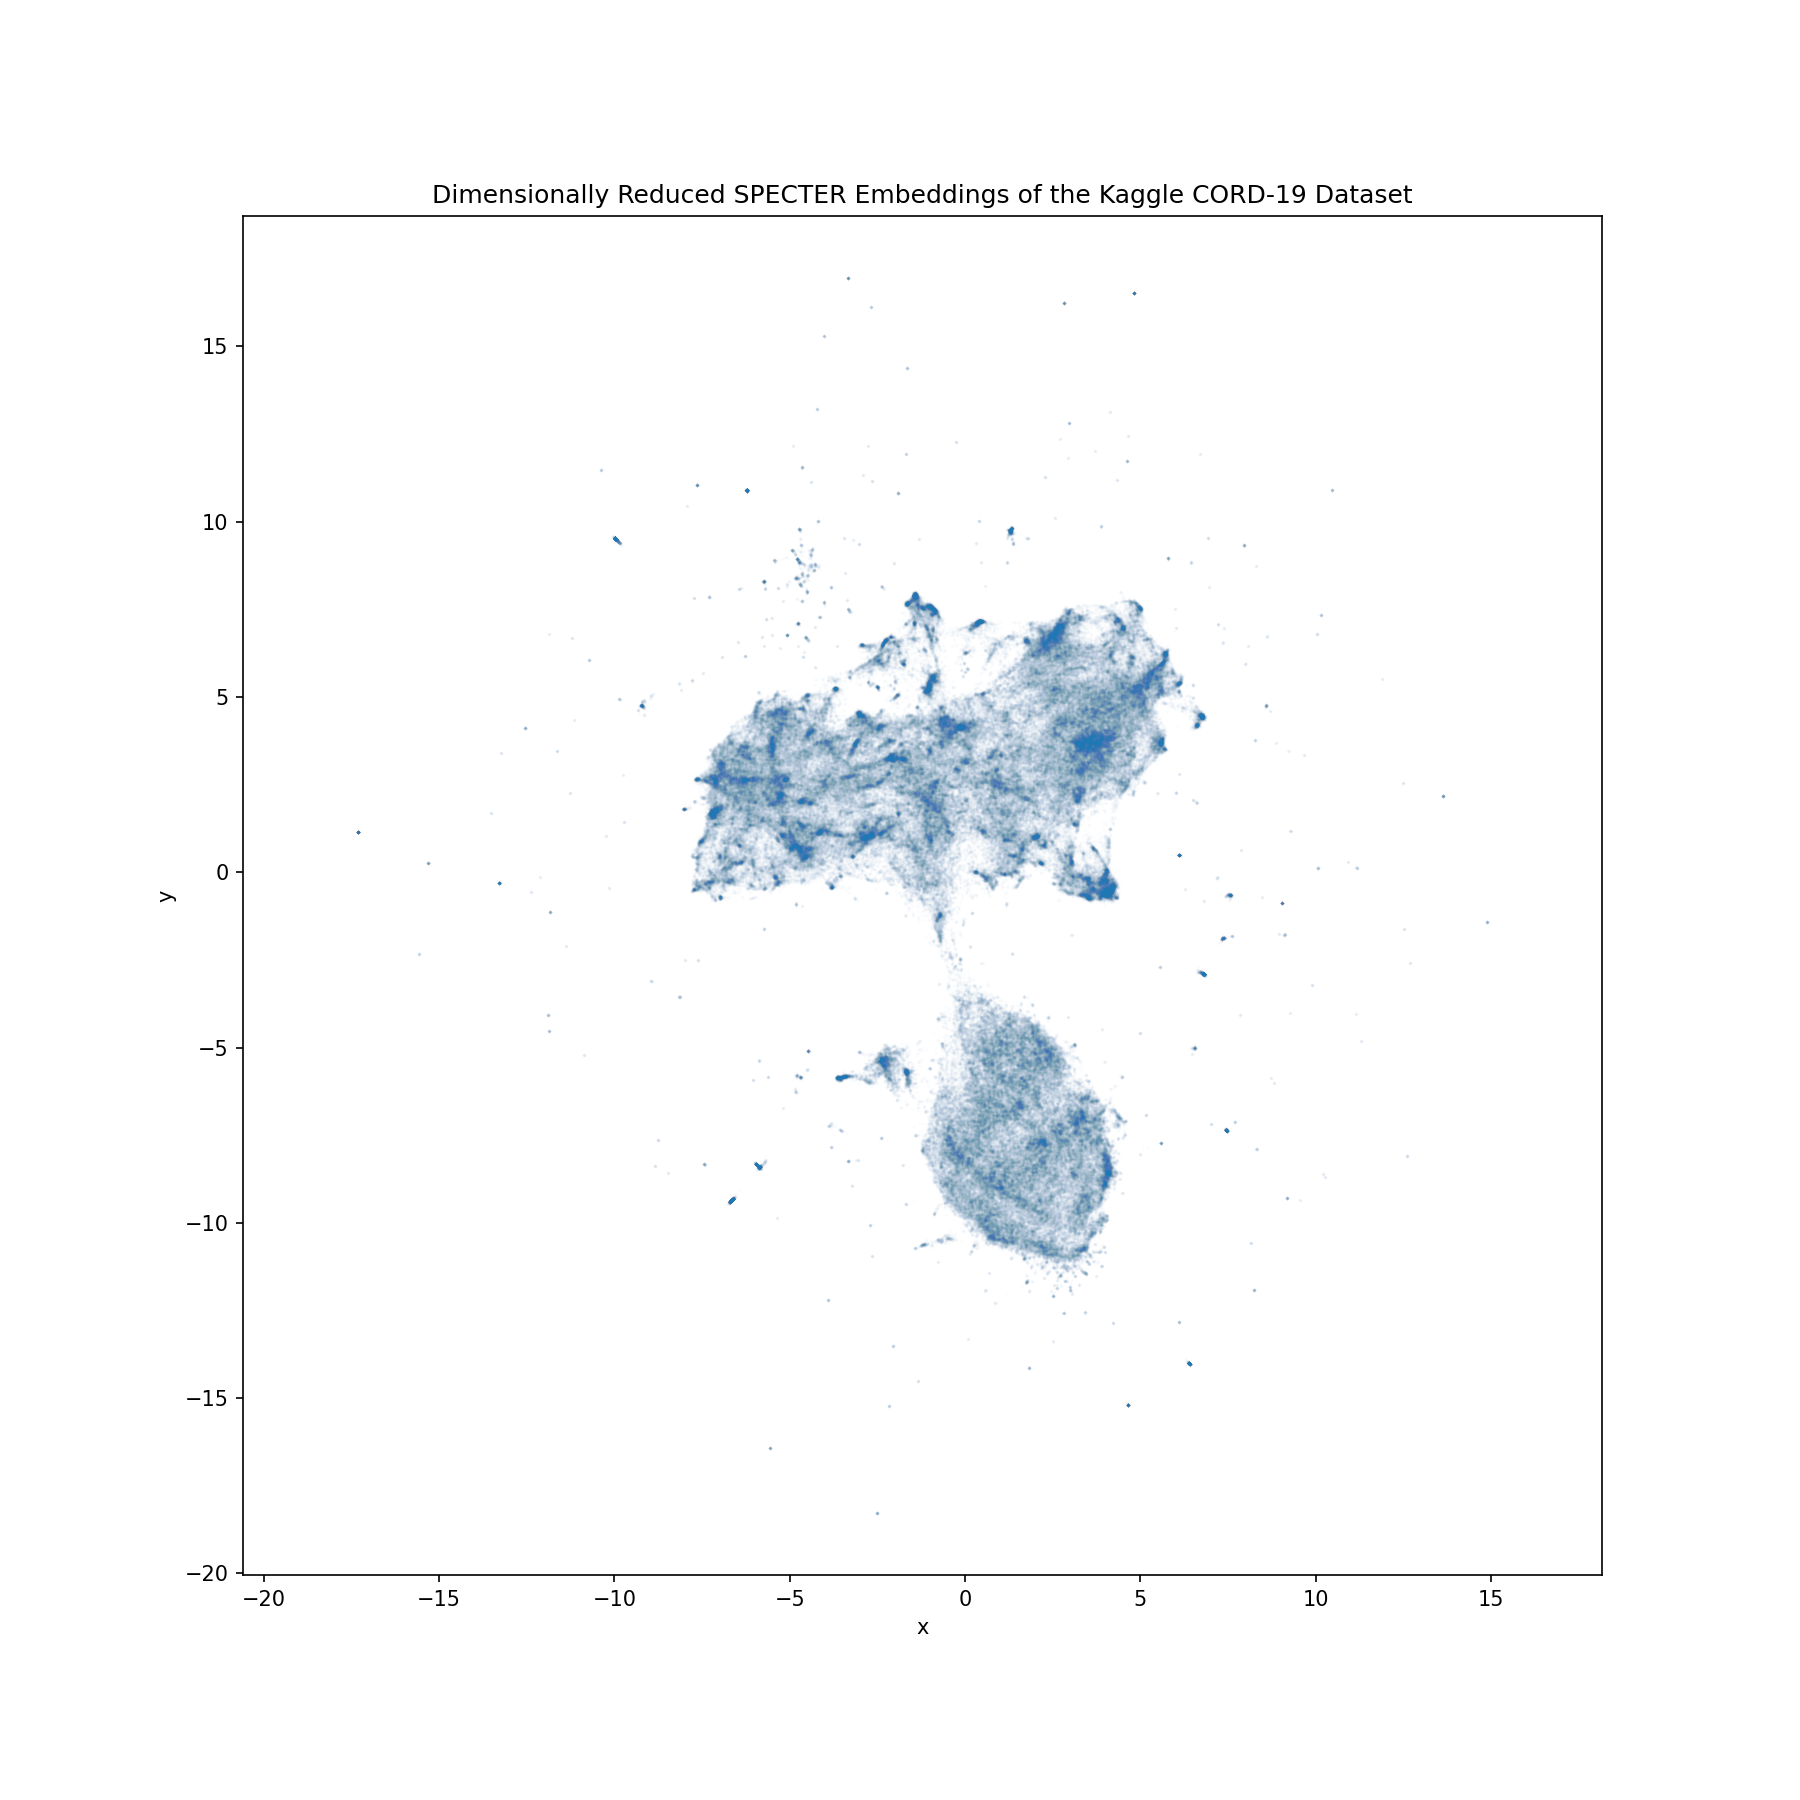
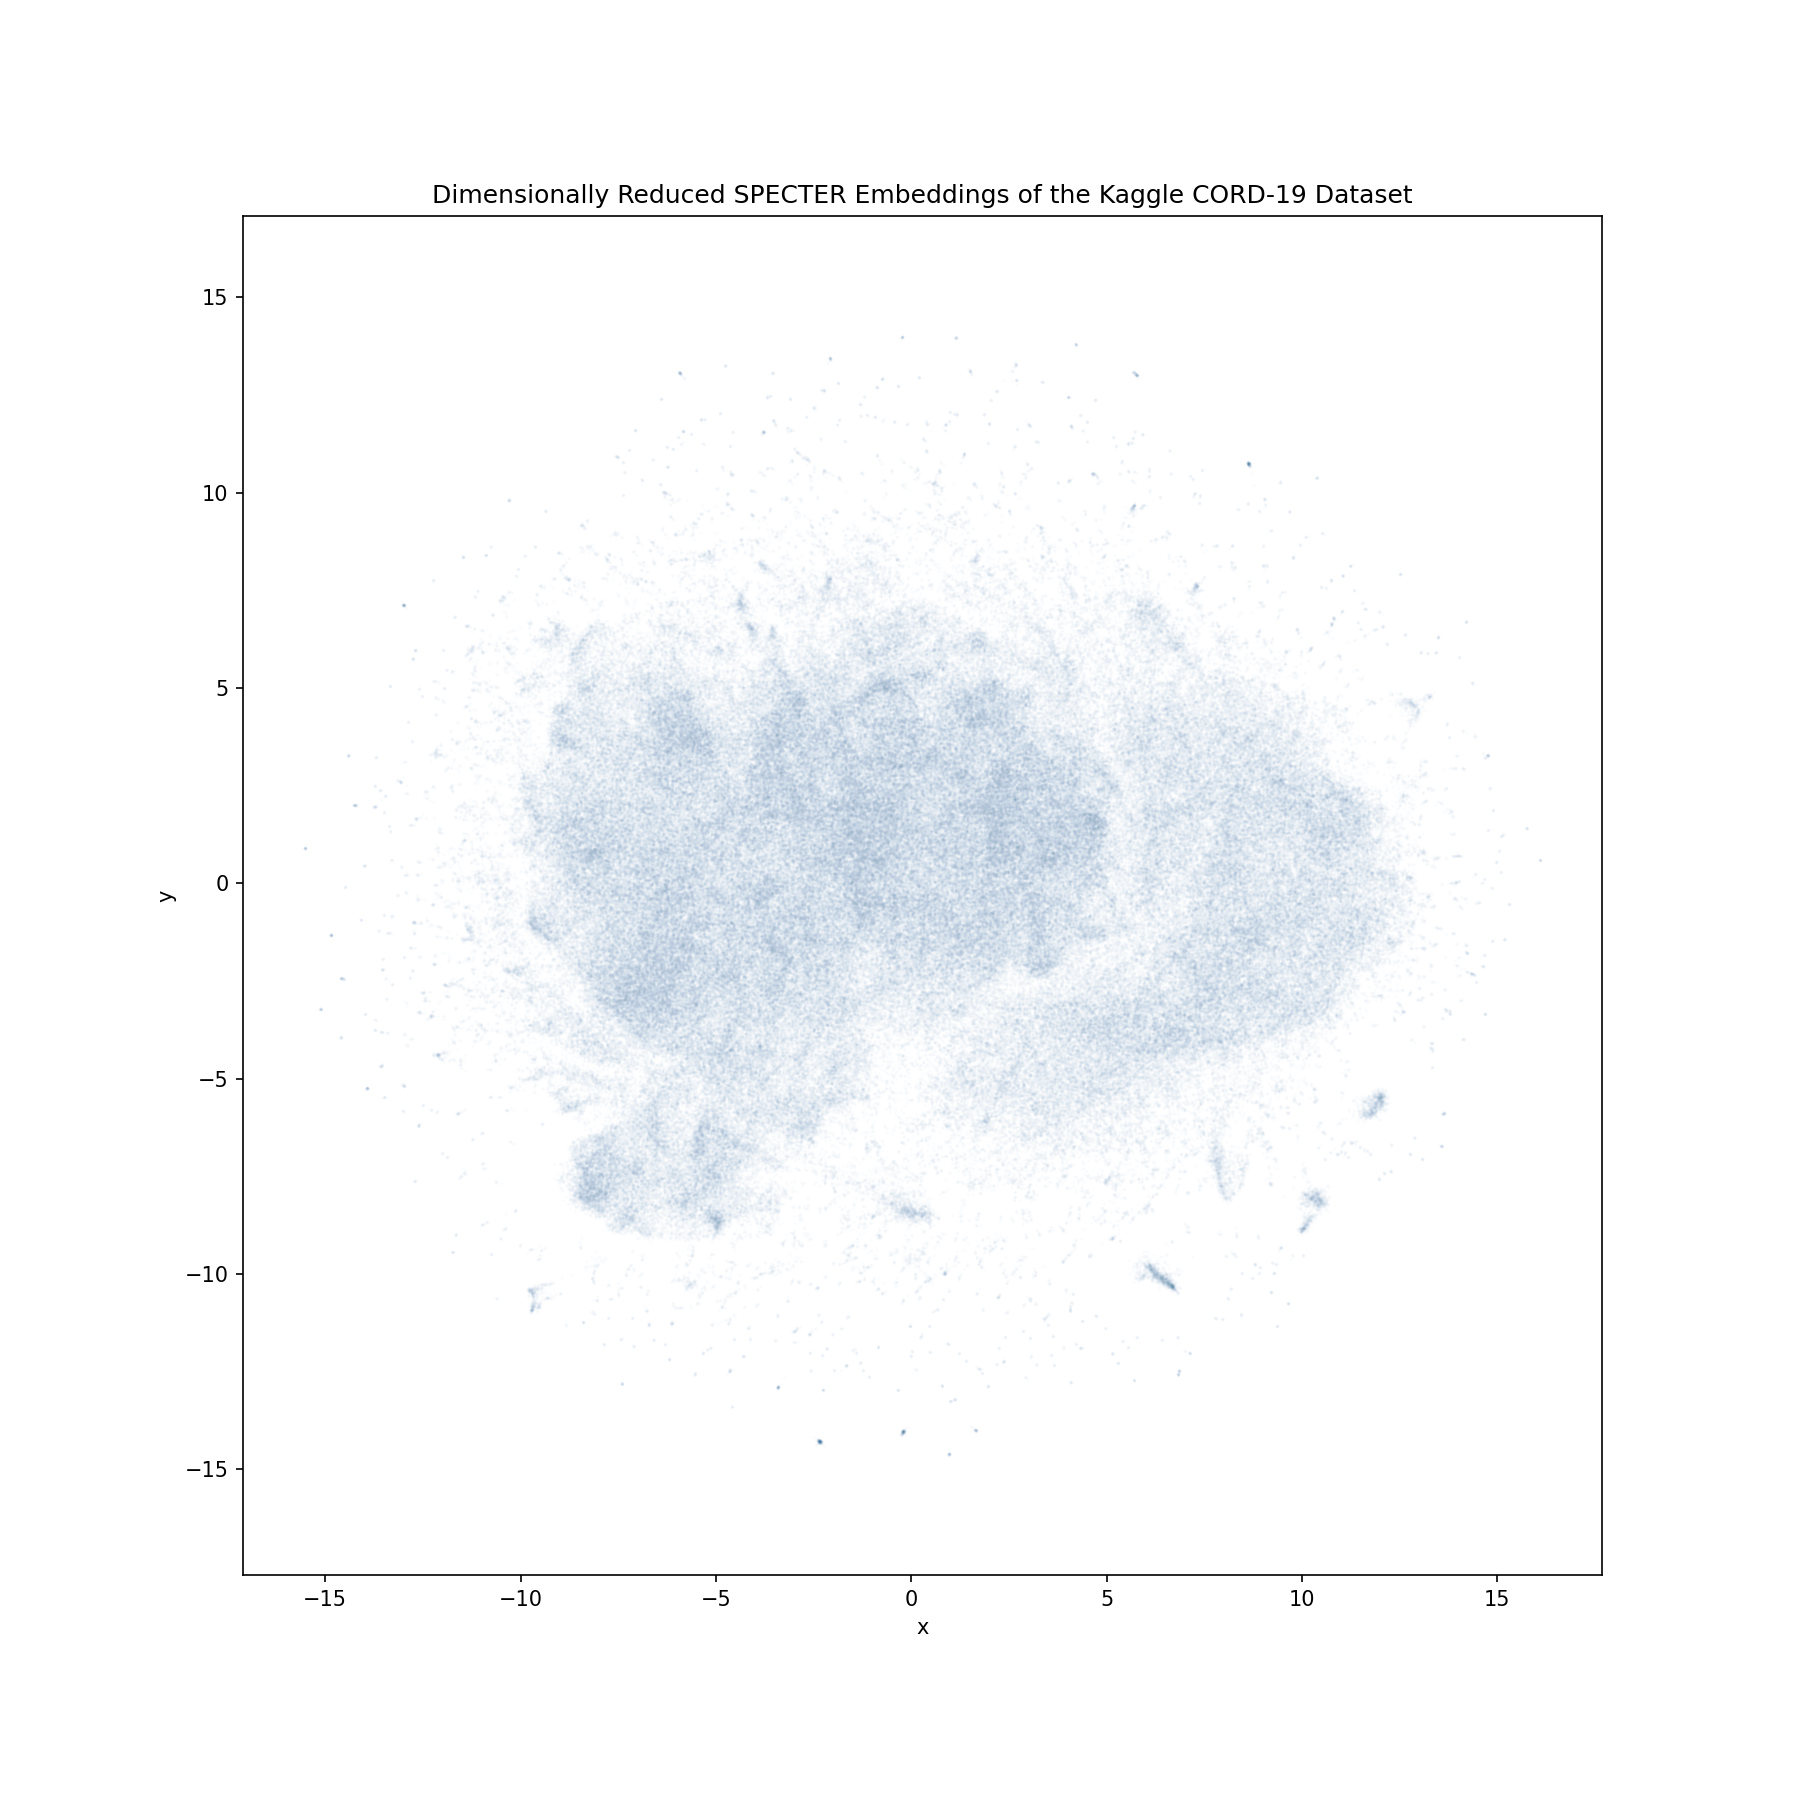
Re-tweaked dim reduce and clustering

Changed region(s): [[0.28, 0.3111, 0.7778, 0.7156], [0.7467, 0.5911, 0.7778, 0.6222], [0.7156, 0.6533, 0.7467, 0.6844]]

diff --git a/KB/4_kaggle_v4_0.py b/KB/4_kaggle_v4_0.py
@@ -107,7 +107,7 @@ if False:
 # %%
 %%time
 
-model_umap = umap.UMAP(n_components = 2, n_neighbors = 15, min_dist = 0.1, metric = 'minkowski', metric_kwds = {'p': 2.0/3.0}, random_state = 0)
+model_umap = umap.UMAP(n_components = 2, n_neighbors = 7, min_dist = 0.5, metric = 'minkowski', metric_kwds = {'p': 2.0/3.0}, random_state = 0)
 
 embs_red = model_umap.fit_transform(embs)
 embs_red = embs_red - np.mean(embs_red, axis = 0)
@@ -126,7 +126,7 @@ if False:
 # %%
 # Plot result
 
-i = np.random.randint(0, high = embs.shape[0], size = 100000)
+i = np.random.randint(0, high = embs.shape[0], size = 10000)
 
 fig, ax = plt.subplots(nrows = 1, ncols = 1, figsize = (12, 12))
 # __ = emlib.plot_emb(coor = embs_red[i, :], cmap_name = 'qual', legend_kwargs = {}, colorbar = False, str_title = 'Dimensionally Reduced SPECTER Embeddings of the Kaggle CORD-19 Dataset', ax = ax)
@@ -139,12 +139,15 @@ fig.savefig('./figures/kaggle/embeddings_umap.png', dpi = 150)
 # # Apply Hierarchical Clustering
 
 # %%
-epsilons = np.arange(0.01, 0.041, 0.01)
+
+# epsilons = np.arange(0.01, 0.041, 0.01)
+epsilons = np.array([0.03, 0.04, 0.05])
+
 labels = []
 for eps in tqdm(epsilons):
 
     # Generate cluster labels
-    kwargs = {'metric': 'euclidean', 'min_cluster_size': 2, 'min_samples': 3, 'cluster_selection_epsilon': float(eps)}
+    kwargs = {'metric': 'euclidean', 'min_cluster_size': 50, 'min_samples': 3, 'cluster_selection_epsilon': float(eps)}
     clusterer = hdbscan.HDBSCAN(**kwargs)
     clusterer.fit(embs_red)
     l = clusterer.labels_
@@ -181,63 +184,92 @@ if False:
     with open('./dist/kaggle/embeddings_umap_hdbscan.pkl', 'rb') as f:
         labels = pickle.load(f)
 
-    epsilons = np.arange(0.01, 0.041, 0.01)[::-1]
+    # epsilons = np.arange(0.01, 0.041, 0.01)[::-1]
+    epsilons = np.array([0.03, 0.04, 0.05])[::-1]
 
 # %%[markdown]
 # Plot cluster distribution
 
-fig, ax = plt.subplots(nrows = 2, ncols = 1, figsize = (12, 12))
+# fig, ax = plt.subplots(nrows = 2, ncols = 1, figsize = (12, 12))
 
-# Number of clusters/groups as a function of epsilon
-c = 'tab:blue'
-x = [np.unique(l, return_counts = True) for l in labels.T]
-__ = ax[0].plot(epsilons, [len(i[0]) for i in x], marker = 'o', color = c)
-__ = ax[0].set_ylabel('Number of Groups', color = c)
-__ = ax[0].tick_params(axis = 'y', labelcolor = c)
-# __ = ax[0].tick_params(axis = 'x', labelbottom = False)
-__ = plt.setp(ax[0], yscale = 'linear')
-
-
-# Size of clusters/groups as a function of epsilon
-c = 'tab:blue'
-y = [i[1] for i in x]
-h = ax[1].violinplot(dataset = y, positions = epsilons, widths = 0.005)
-__ = plt.setp(ax[1], xlabel = 'Epsilon, \u03B5', yscale = 'log')
-__ = ax[1].set_ylabel('Size of Groups', color = c)
-__ = ax[1].tick_params(axis = 'y', labelcolor = c)
-for i in h['bodies']:
-    i.set_facecolor(c)
-
-# Number of noise points
-c = 'tab:red'
-ax_ = ax[1].twinx()
-z = [sum(labels[:, i] == -1) for i in range(labels.shape[1])]
-__ = ax_.plot(epsilons, z, marker = 'o', color = c)
-__ = plt.setp(ax_, yscale = 'log')
-__ = ax_.set_ylabel('Number of Noise Points', color = c)
-__ = ax_.tick_params(axis = 'y', labelcolor = c)
-
-__ = plt.setp(ax_, ylim = plt.getp(ax[1], 'ylim'))
-__ = plt.setp(ax[0], xlim = plt.getp(ax[1], 'xlim'))
+# # Number of clusters/groups as a function of epsilon
+# c = 'tab:blue'
+# x = [np.unique(l, return_counts = True) for l in labels.T]
+# __ = ax[0].plot(epsilons, [len(i[0]) for i in x], marker = 'o', color = c)
+# __ = ax[0].set_ylabel('Number of Groups', color = c)
+# __ = ax[0].tick_params(axis = 'y', labelcolor = c)
+# # __ = ax[0].tick_params(axis = 'x', labelbottom = False)
+# __ = plt.setp(ax[0], yscale = 'linear')
 
 
-fig.savefig('./figures/kaggle/embeddings_umap_hdbscan_distribution.png', dpi = 150)
+# # Size of clusters/groups as a function of epsilon
+# c = 'tab:blue'
+# y = [i[1] for i in x]
+# h = ax[1].violinplot(dataset = y, positions = epsilons, widths = 0.005)
+# __ = plt.setp(ax[1], xlabel = 'Epsilon, \u03B5', yscale = 'log')
+# __ = ax[1].set_ylabel('Size of Groups', color = c)
+# __ = ax[1].tick_params(axis = 'y', labelcolor = c)
+# for i in h['bodies']:
+#     i.set_facecolor(c)
 
-fig = ax = x = y = z = h = None
-del fig, ax, x, y, z, h
+# # Number of noise points
+# c = 'tab:red'
+# ax_ = ax[1].twinx()
+# z = [sum(labels[:, i] == -1) for i in range(labels.shape[1])]
+# __ = ax_.plot(epsilons, z, marker = 'o', color = c)
+# __ = plt.setp(ax_, yscale = 'log')
+# __ = ax_.set_ylabel('Number of Noise Points', color = c)
+# __ = ax_.tick_params(axis = 'y', labelcolor = c)
+
+# __ = plt.setp(ax_, ylim = plt.getp(ax[1], 'ylim'))
+# __ = plt.setp(ax[0], xlim = plt.getp(ax[1], 'xlim'))
+
+
+# fig.savefig('./figures/kaggle/embeddings_umap_hdbscan_distribution.png', dpi = 150)
+
+# fig = ax = x = y = z = h = None
+# del fig, ax, x, y, z, h
+
+
+# %%
+# X% quantile of cluster size
+n = 0.98
+labels_ = []
+
+for i in range(len(epsilons)):
+
+    x, y = np.unique(labels[:, i], return_counts = True)
+    j = np.argsort(y)[::-1]
+    x = x[j]
+    y = y[j]
+
+    m = np.quantile(y, n)
+    p = sum(y >= m)
+
+    print(f"eps = {epsilons[i]}: {n}-quantile cluster size = {m}, top {p} clusters")
+    
+    labels_.append([l if l in x[:p] else -1 for l in labels[:, i]])
+    
+labels_ = np.array(labels_).T
+
+# eps = 0.05: 0.98-quantile cluster size = 52.0, top 66 clusters
+# eps = 0.04: 0.98-quantile cluster size = 59.0, top 118 clusters
+# eps = 0.03: 0.98-quantile cluster size = 54.0, top 317 clusters
 
 
 # %%[markdown]
 # Plot result
 
-j = np.random.randint(0, high = embs_red.shape[0], size = 100000)
+%%time
+
+j = np.random.randint(0, high = embs_red.shape[0], size = 50000)
 
 fig, ax = plt.subplots(nrows = 2, ncols = 2, figsize = (15, 15))
 
 for i, x in enumerate(fig.axes):
 
     if i < labels.shape[1]:
-        __ = emlib.plot_emb(coor = embs_red[j, :], labels = labels[j, i], cmap_name = 'qual', marker_size = 0.5, marker_alpha = 0.05, legend_kwargs = {}, colorbar = False, str_title = f'\u03B5 = {epsilons[i]:.2f}', ax = x)
+        __ = emlib.plot_emb(coor = embs_red[j, :], labels = labels_[j, i], cmap_name = 'qual', marker_size = 1.0, marker_alpha = 0.1, legend_kwargs = {}, colorbar = False, str_title = f'\u03B5 = {epsilons[i]:.3f}', ax = x)
         __ = plt.setp(x, xlabel = '', ylabel = '')
         __ = x.tick_params(axis = 'both', bottom = False, left = False, labelbottom = False, labelleft = False)
     
@@ -784,9 +816,14 @@ def generate_kaggle_nodelist(docs: List, embs: Any, labels: Any, model_id: int =
         } for group_id in sorted(map_groups_nodes.keys())]
 
 
-        # Node IDs of children groups
-        for group in groups:
-            group['node_ids_all'] = [int(i) for group_id in group['children_ids'] if group_id != -1 for i in sorted(map_groups_nodes[group_id])]
+        # # Node IDs of children groups
+        # for group in groups:
+
+        #     # group['node_ids_all'] = [int(i) for group_id in group['children_ids'] if group_id != -1 for i in sorted(map_groups_nodes[group_id])]
+
+        #     group['node_ids_all'] = [int(i) for i in sorted(map_groups_nodes[group_id])]
+
+        #     group['node_ids_all'].extend([int(i) for group_id in group['children_ids'] if group_id != -1 for i in map_groups_nodes[group_id]])
 
 
         # Calculate kNN median centroid of each group
@@ -843,7 +880,7 @@ ax.scatter(coors_centroid[:, 0], coors_centroid[:, 1], marker = '+')
 
 # %%
 # Generate lists
-nodes, nodeLayout, nodeAtts, groups = generate_kaggle_nodelist(docs = docs, embs = embs_red, labels = labels, model_id = None)
+nodes, nodeLayout, nodeAtts, groups = generate_kaggle_nodelist(docs = docs, embs = embs_red, labels = labels_, model_id = None)
 
 # %%
 
